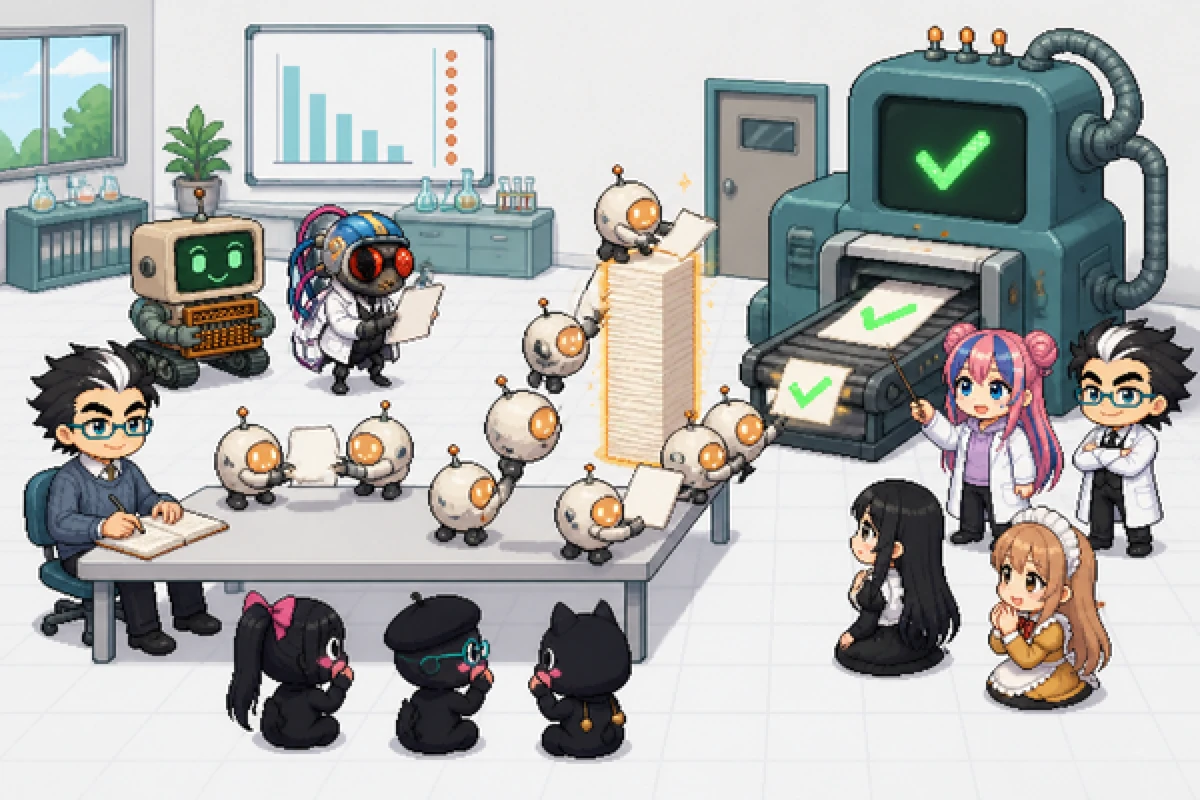
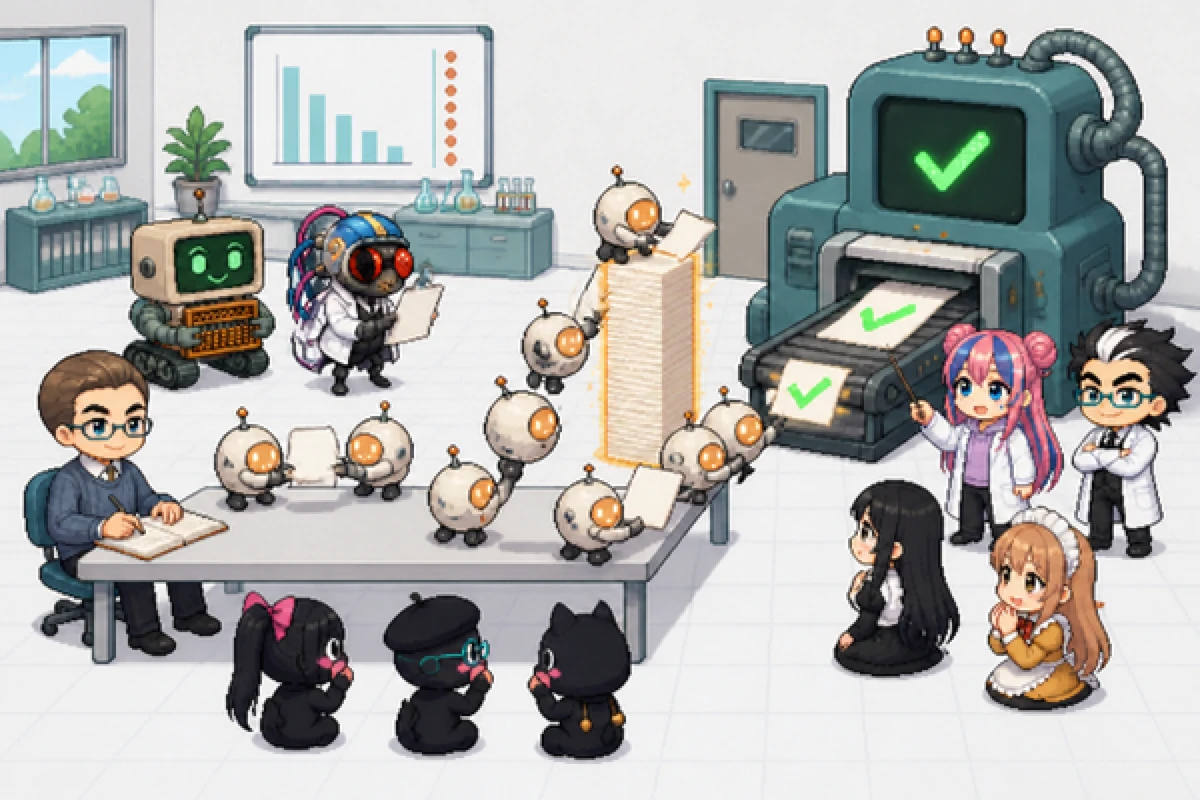
v2.0.1: 프롤로그·3장 그림 인물 편집판으로 교체

diff --git a/README.md b/README.md
@@ -40,7 +40,7 @@
   - 수식(어림 공식·약속 범위 식·제타 함수)은 모두 "더 알고 싶은 분" 접기 상자로. 해시 서랍·매미·소수 간격·약속 활용 센터·어림 비교판 대시보드는 본문에서 뺌(rh.js 코드는 남겨 둠).
   - 사실 정정: "Lean 파일 약 17만 5천 개" → "Lean 코드 약 1,700만 줄"(Lean 커뮤니티 공동 성명 기준). 출처를 확인하지 못한 "MIT 서덜랜드 등 재검사" 문장은 뺌. Lean 공동 성명 원문 링크 추가.
   - 그림: 기존 10장 중 9장 재사용(scene_s4는 미사용). 새 장면 3장(scene_prologue·scene_claude·scene_reconcile) 요청문 docs/genspark_pixel/05_scenes_v2.txt. 받기 전까지는 "그림 준비 중" 자리로 표시.
-- v2.0.1 (2026-11-23): 새 장면 3장 반영(1200·2400폭 WebP). 프롤로그·3장 그림은 인물 편집 요청 중(docs/genspark_pixel/06_fix_v2.txt).
+- v2.0.1 (2026-11-23): 새 장면 3장 반영(1200·2400폭 WebP). 프롤로그·3장 그림은 인물만 편집한 판으로 교체(프롤로그 가운데 인물 → 초파리, 3장 수학자 머리 변경).
 - v1.3 (2026-11-22): 그림 10장을 최대 해상도판으로 교체 — 기본 WebP(1600·1200폭) + 고해상도 화면용 @2x WebP(3200·2400폭, srcset).
 - v1.2.1 (2026-11-22): 그림을 PNG 원본에서 무손실 WebP로 다시 변환(색 번짐·뭉개짐 해소), 장면 그림 pixelated 렌더링 해제.
 - v1.2 (2026-11-22): 픽셀 표지 2장·장면 그림 8장 반영(assets/img), 공유 미리보기(og:image, assets/thumbs).

diff --git a/docs/genspark_pixel/README.md b/docs/genspark_pixel/README.md
@@ -9,7 +9,7 @@
 | 3 | 03_scenes_s1_s4.txt | 4 | 3:2 (1200×800) |
 | 4 | 04_scenes_s5_outro.txt | 4 | 3:2 |
 | 5 | 05_scenes_v2.txt | 3 | 3:2 — v2.0 새 장면(scene_prologue·scene_claude·scene_reconcile). 기존 10장은 그대로 재사용 — 2026-11-23 받아 반영 |
-| 6 | 06_fix_v2.txt | 2 | 인물만 편집 — 프롤로그(가운데 인물이 박사로 그려짐 → 초파리), 3장(앉은 수학자가 박사와 닮음 → 머리만 변경) |
+| 6 | 06_fix_v2.txt | 2 | 인물만 편집 — 프롤로그(가운데 인물이 박사로 그려짐 → 초파리), 3장(앉은 수학자가 박사와 닮음 → 머리만 변경) — 2026-11-23 반영 완료 |
 
 - refs/: 캐릭터 기본 그림 10장 — 박사·조수 하루·초파리 연구원·주판봇·시아·모아(fruitfly-lab-expressions E13_neutral), 방청석 X1·X2·X3(E13_neutral), 긴장한 하루(E20_sweat_drop). 모든 대화에 함께 올린다.
 - 대화 2부터는 대화 1에서 받은 cover_index.png도 "그림체 참고"로 올린다.
